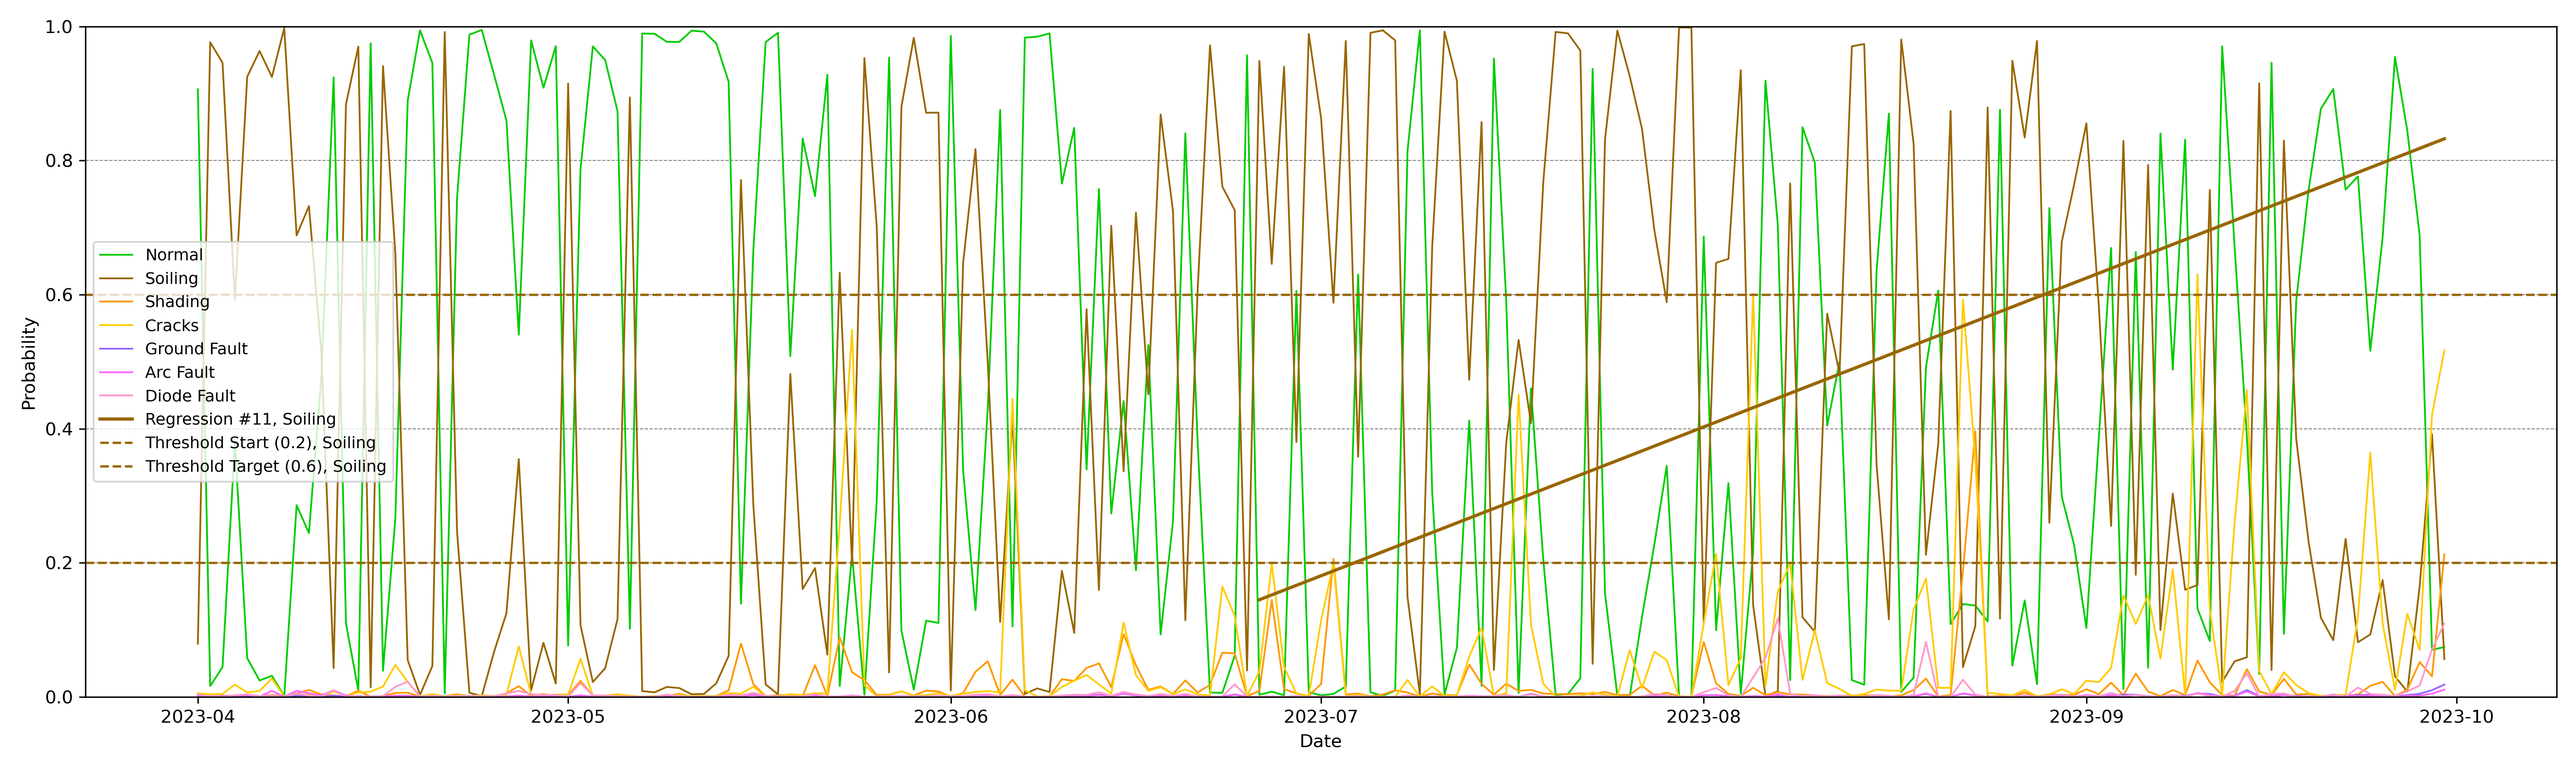
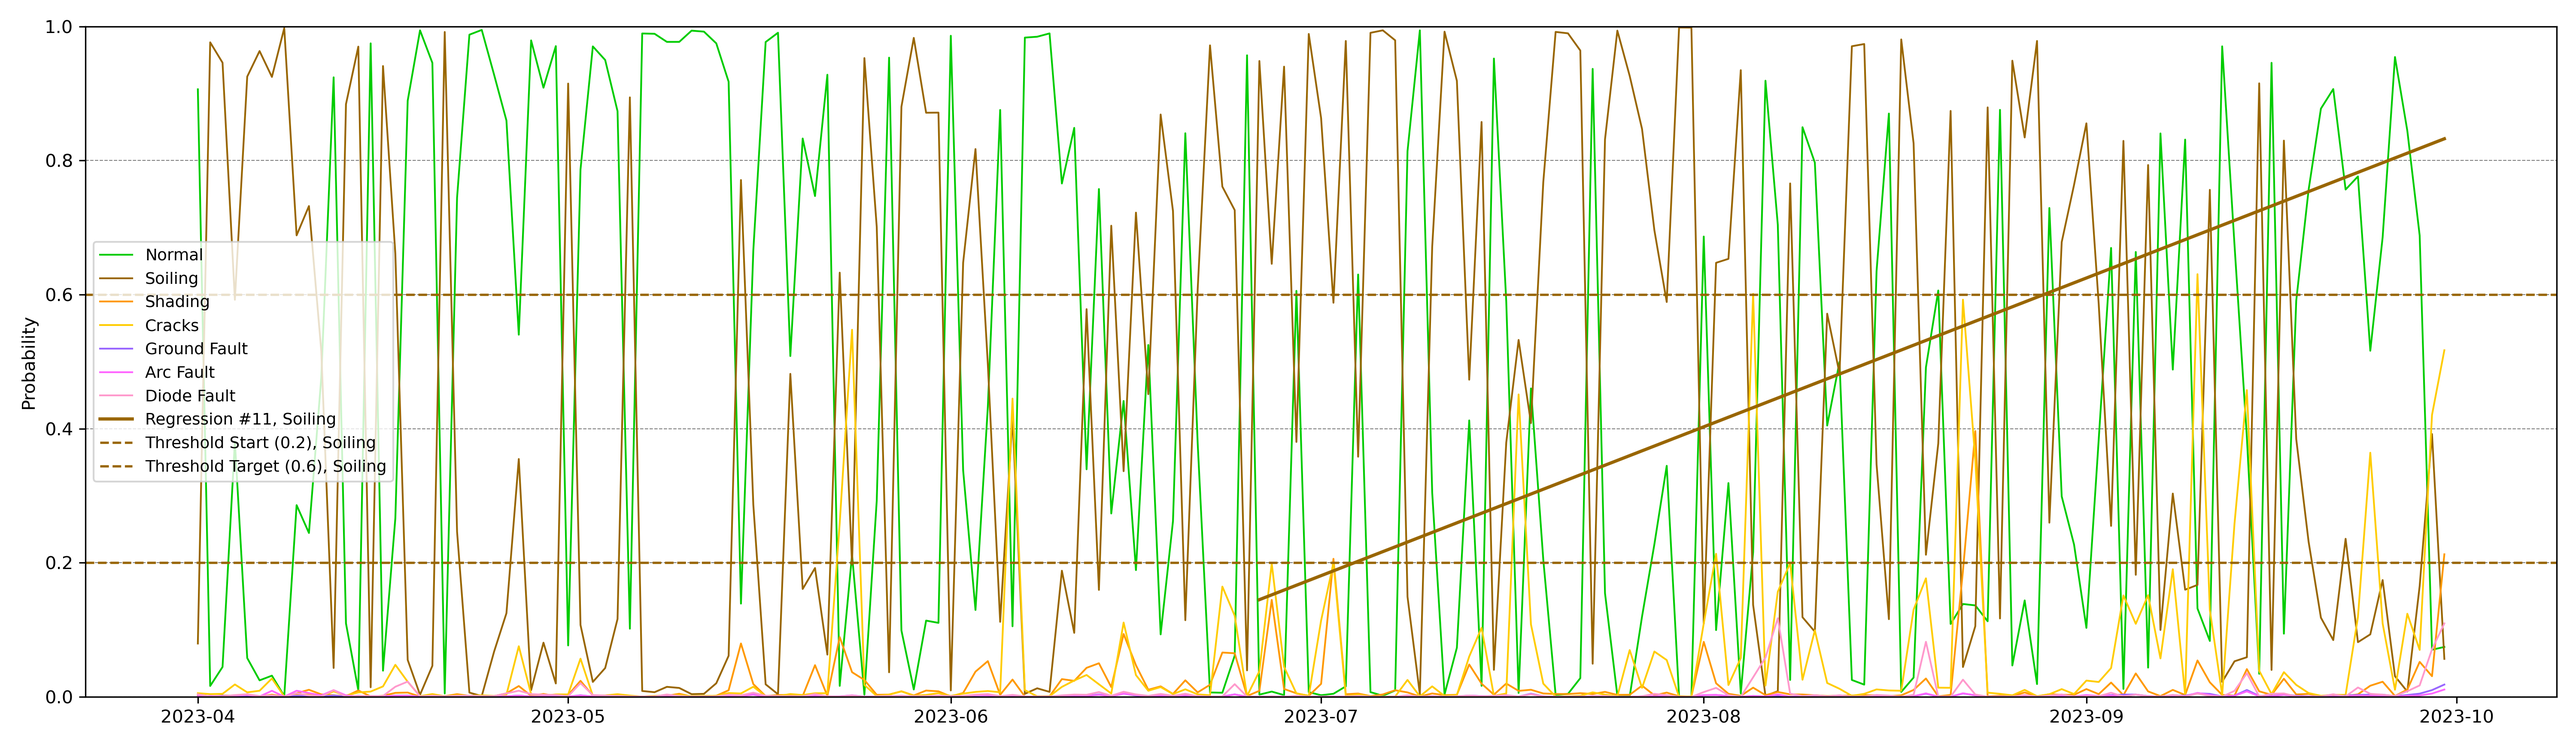
Update

diff --git a/plot_ts_prediction.py b/plot_ts_prediction.py
@@ -82,7 +82,7 @@ def plot_daily_class_probabilities(csv_path, output_image_path,
                    label=f'Threshold Target ({threshold_target})')
 
     # Axis formatting
-    ax.set_xlabel('Date', color='black', fontsize=10)
+    # ax.set_xlabel('Date', color='black', fontsize=10)
     ax.set_ylabel('Probability', color='black', fontsize=10)
     ax.tick_params(axis='x', colors='black', rotation=0)
     ax.tick_params(axis='y', colors='black')
@@ -205,7 +205,7 @@ def plot_predictions_cleveland(df_predictions, output_image_path):
     ax.get_yaxis().set_visible(False)
 
     # X-axis formatting
-    ax.set_xlabel('Date', color='black', fontsize=10)
+    # ax.set_xlabel('Date', color='black', fontsize=10)
     # ax.set_title('Prediction Timeline, Cleveland-style', color='black')
 
     # Grid and ticks
